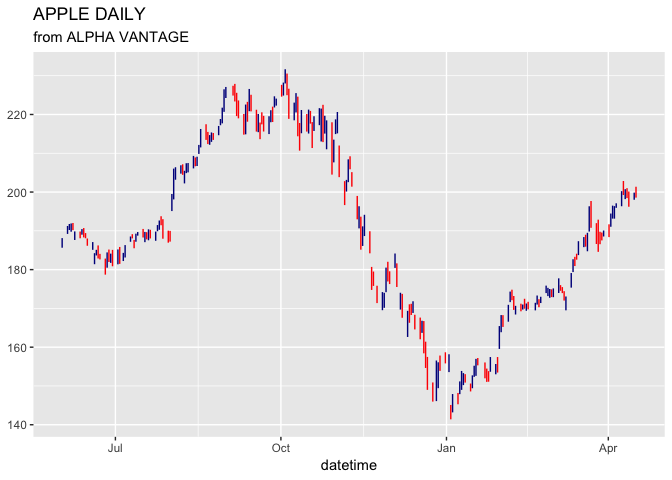
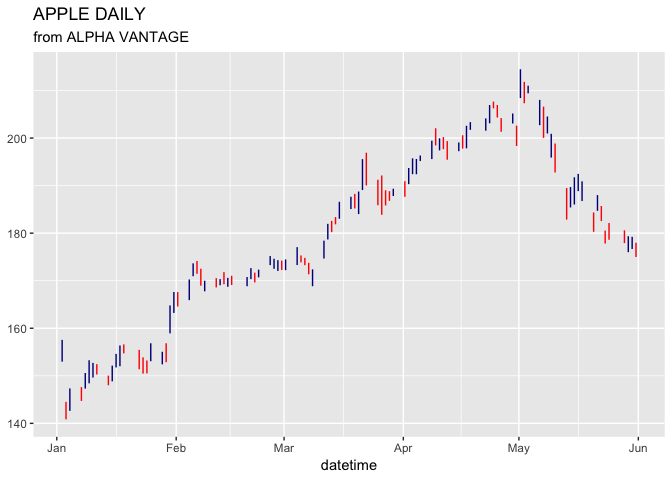
significant change to function signitures

diff --git a/README.md b/README.md
@@ -8,23 +8,26 @@ exposed.
 Daily Market Data
 -----------------
 
-    aapl <- time_series_daily_adjusted("AAPL",outputsize="full")
+    aapl <- time_series_daily_adjusted("AAPL",from = "2019-01-01", to = "2019-06-01")
+
+    ## No encoding supplied: defaulting to UTF-8.
+
     aapl
 
-    ## # A tibble: 5,356 x 18
+    ## # A tibble: 104 x 18
     ##    symbol date  sourceName sequenceID datetime             epoch  open
     ##    <chr>  <chr> <chr>           <dbl> <dttm>               <dbl> <dbl>
-    ##  1 AAPL   2019… AV                  0 2019-04-16 09:30:00 1.56e9  199.
-    ##  2 AAPL   2019… AV                  0 2019-04-15 09:30:00 1.56e9  199.
-    ##  3 AAPL   2019… AV                  0 2019-04-12 09:30:00 1.56e9  199.
-    ##  4 AAPL   2019… AV                  0 2019-04-11 09:30:00 1.55e9  201.
-    ##  5 AAPL   2019… AV                  0 2019-04-10 09:30:00 1.55e9  199.
-    ##  6 AAPL   2019… AV                  0 2019-04-09 09:30:00 1.55e9  200.
-    ##  7 AAPL   2019… AV                  0 2019-04-08 09:30:00 1.55e9  196.
-    ##  8 AAPL   2019… AV                  0 2019-04-05 09:30:00 1.55e9  196.
-    ##  9 AAPL   2019… AV                  0 2019-04-04 09:30:00 1.55e9  195.
-    ## 10 AAPL   2019… AV                  0 2019-04-03 09:30:00 1.55e9  193.
-    ## # … with 5,346 more rows, and 11 more variables: high <dbl>, low <dbl>,
+    ##  1 AAPL   2019… AV                  0 2019-05-31 09:30:00 1.56e9  176.
+    ##  2 AAPL   2019… AV                  0 2019-05-30 09:30:00 1.56e9  178.
+    ##  3 AAPL   2019… AV                  0 2019-05-29 09:30:00 1.56e9  176.
+    ##  4 AAPL   2019… AV                  0 2019-05-28 09:30:00 1.56e9  179.
+    ##  5 AAPL   2019… AV                  0 2019-05-24 09:30:00 1.56e9  180.
+    ##  6 AAPL   2019… AV                  0 2019-05-23 09:30:00 1.56e9  180.
+    ##  7 AAPL   2019… AV                  0 2019-05-22 09:30:00 1.56e9  185.
+    ##  8 AAPL   2019… AV                  0 2019-05-21 09:30:00 1.56e9  185.
+    ##  9 AAPL   2019… AV                  0 2019-05-20 09:30:00 1.56e9  184.
+    ## 10 AAPL   2019… AV                  0 2019-05-17 09:30:00 1.56e9  187.
+    ## # … with 94 more rows, and 11 more variables: high <dbl>, low <dbl>,
     ## #   volume <dbl>, close <dbl>, aOpen <dbl>, aHigh <dbl>, aLow <dbl>,
     ## #   aClose <dbl>, aVolume <dbl>, dividendAmount <dbl>,
     ## #   splitCoefficient <dbl>
@@ -32,29 +35,32 @@ Daily Market Data
 Intraday Market Data
 --------------------
 
-    aapl_id <- time_series_intraday("AAPL",outputsize="full")
+    aapl_id <- time_series_intraday("AAPL",nDays = 1)
+
+    ## No encoding supplied: defaulting to UTF-8.
+
     aapl_id
 
-    ## # A tibble: 1,950 x 15
+    ## # A tibble: 390 x 15
     ##    symbol date  minute sourceName sequenceID datetime             epoch
     ##    <chr>  <chr>  <dbl> <chr>           <dbl> <dttm>               <dbl>
-    ##  1 AAPL   2019…    390 AV                  0 2019-04-16 16:00:00 1.56e9
-    ##  2 AAPL   2019…    389 AV                  0 2019-04-16 15:59:00 1.56e9
-    ##  3 AAPL   2019…    388 AV                  0 2019-04-16 15:58:00 1.56e9
-    ##  4 AAPL   2019…    387 AV                  0 2019-04-16 15:57:00 1.56e9
-    ##  5 AAPL   2019…    386 AV                  0 2019-04-16 15:56:00 1.56e9
-    ##  6 AAPL   2019…    385 AV                  0 2019-04-16 15:55:00 1.56e9
-    ##  7 AAPL   2019…    384 AV                  0 2019-04-16 15:54:00 1.56e9
-    ##  8 AAPL   2019…    383 AV                  0 2019-04-16 15:53:00 1.56e9
-    ##  9 AAPL   2019…    382 AV                  0 2019-04-16 15:52:00 1.56e9
-    ## 10 AAPL   2019…    381 AV                  0 2019-04-16 15:51:00 1.56e9
-    ## # … with 1,940 more rows, and 8 more variables: average <dbl>, open <dbl>,
+    ##  1 AAPL   2019…    390 AV                  0 2019-06-27 16:00:00 1.56e9
+    ##  2 AAPL   2019…    389 AV                  0 2019-06-27 15:59:00 1.56e9
+    ##  3 AAPL   2019…    388 AV                  0 2019-06-27 15:58:00 1.56e9
+    ##  4 AAPL   2019…    387 AV                  0 2019-06-27 15:57:00 1.56e9
+    ##  5 AAPL   2019…    386 AV                  0 2019-06-27 15:56:00 1.56e9
+    ##  6 AAPL   2019…    385 AV                  0 2019-06-27 15:55:00 1.56e9
+    ##  7 AAPL   2019…    384 AV                  0 2019-06-27 15:54:00 1.56e9
+    ##  8 AAPL   2019…    383 AV                  0 2019-06-27 15:53:00 1.56e9
+    ##  9 AAPL   2019…    382 AV                  0 2019-06-27 15:52:00 1.56e9
+    ## 10 AAPL   2019…    381 AV                  0 2019-06-27 15:51:00 1.56e9
+    ## # … with 380 more rows, and 8 more variables: average <dbl>, open <dbl>,
     ## #   high <dbl>, low <dbl>, close <dbl>, volume <dbl>, notional <dbl>,
     ## #   numberOfTrades <dbl>
 
 Note that the data is returned as a tibble (dataframe)
 
-    ggplot2::ggplot(aapl %>%filter(datetime>"2018-06-01"),aes(x = datetime)) +
+    ggplot2::ggplot(aapl ,aes(x = datetime)) +
       geom_candlestick(aes(open = aOpen, high=aHigh, low= aLow, close = aClose)) + ggplot2::ggtitle("APPLE DAILY",subtitle = "from ALPHA VANTAGE")
 
 ![](README_files/figure-markdown_strict/apple%20daily-1.png)
